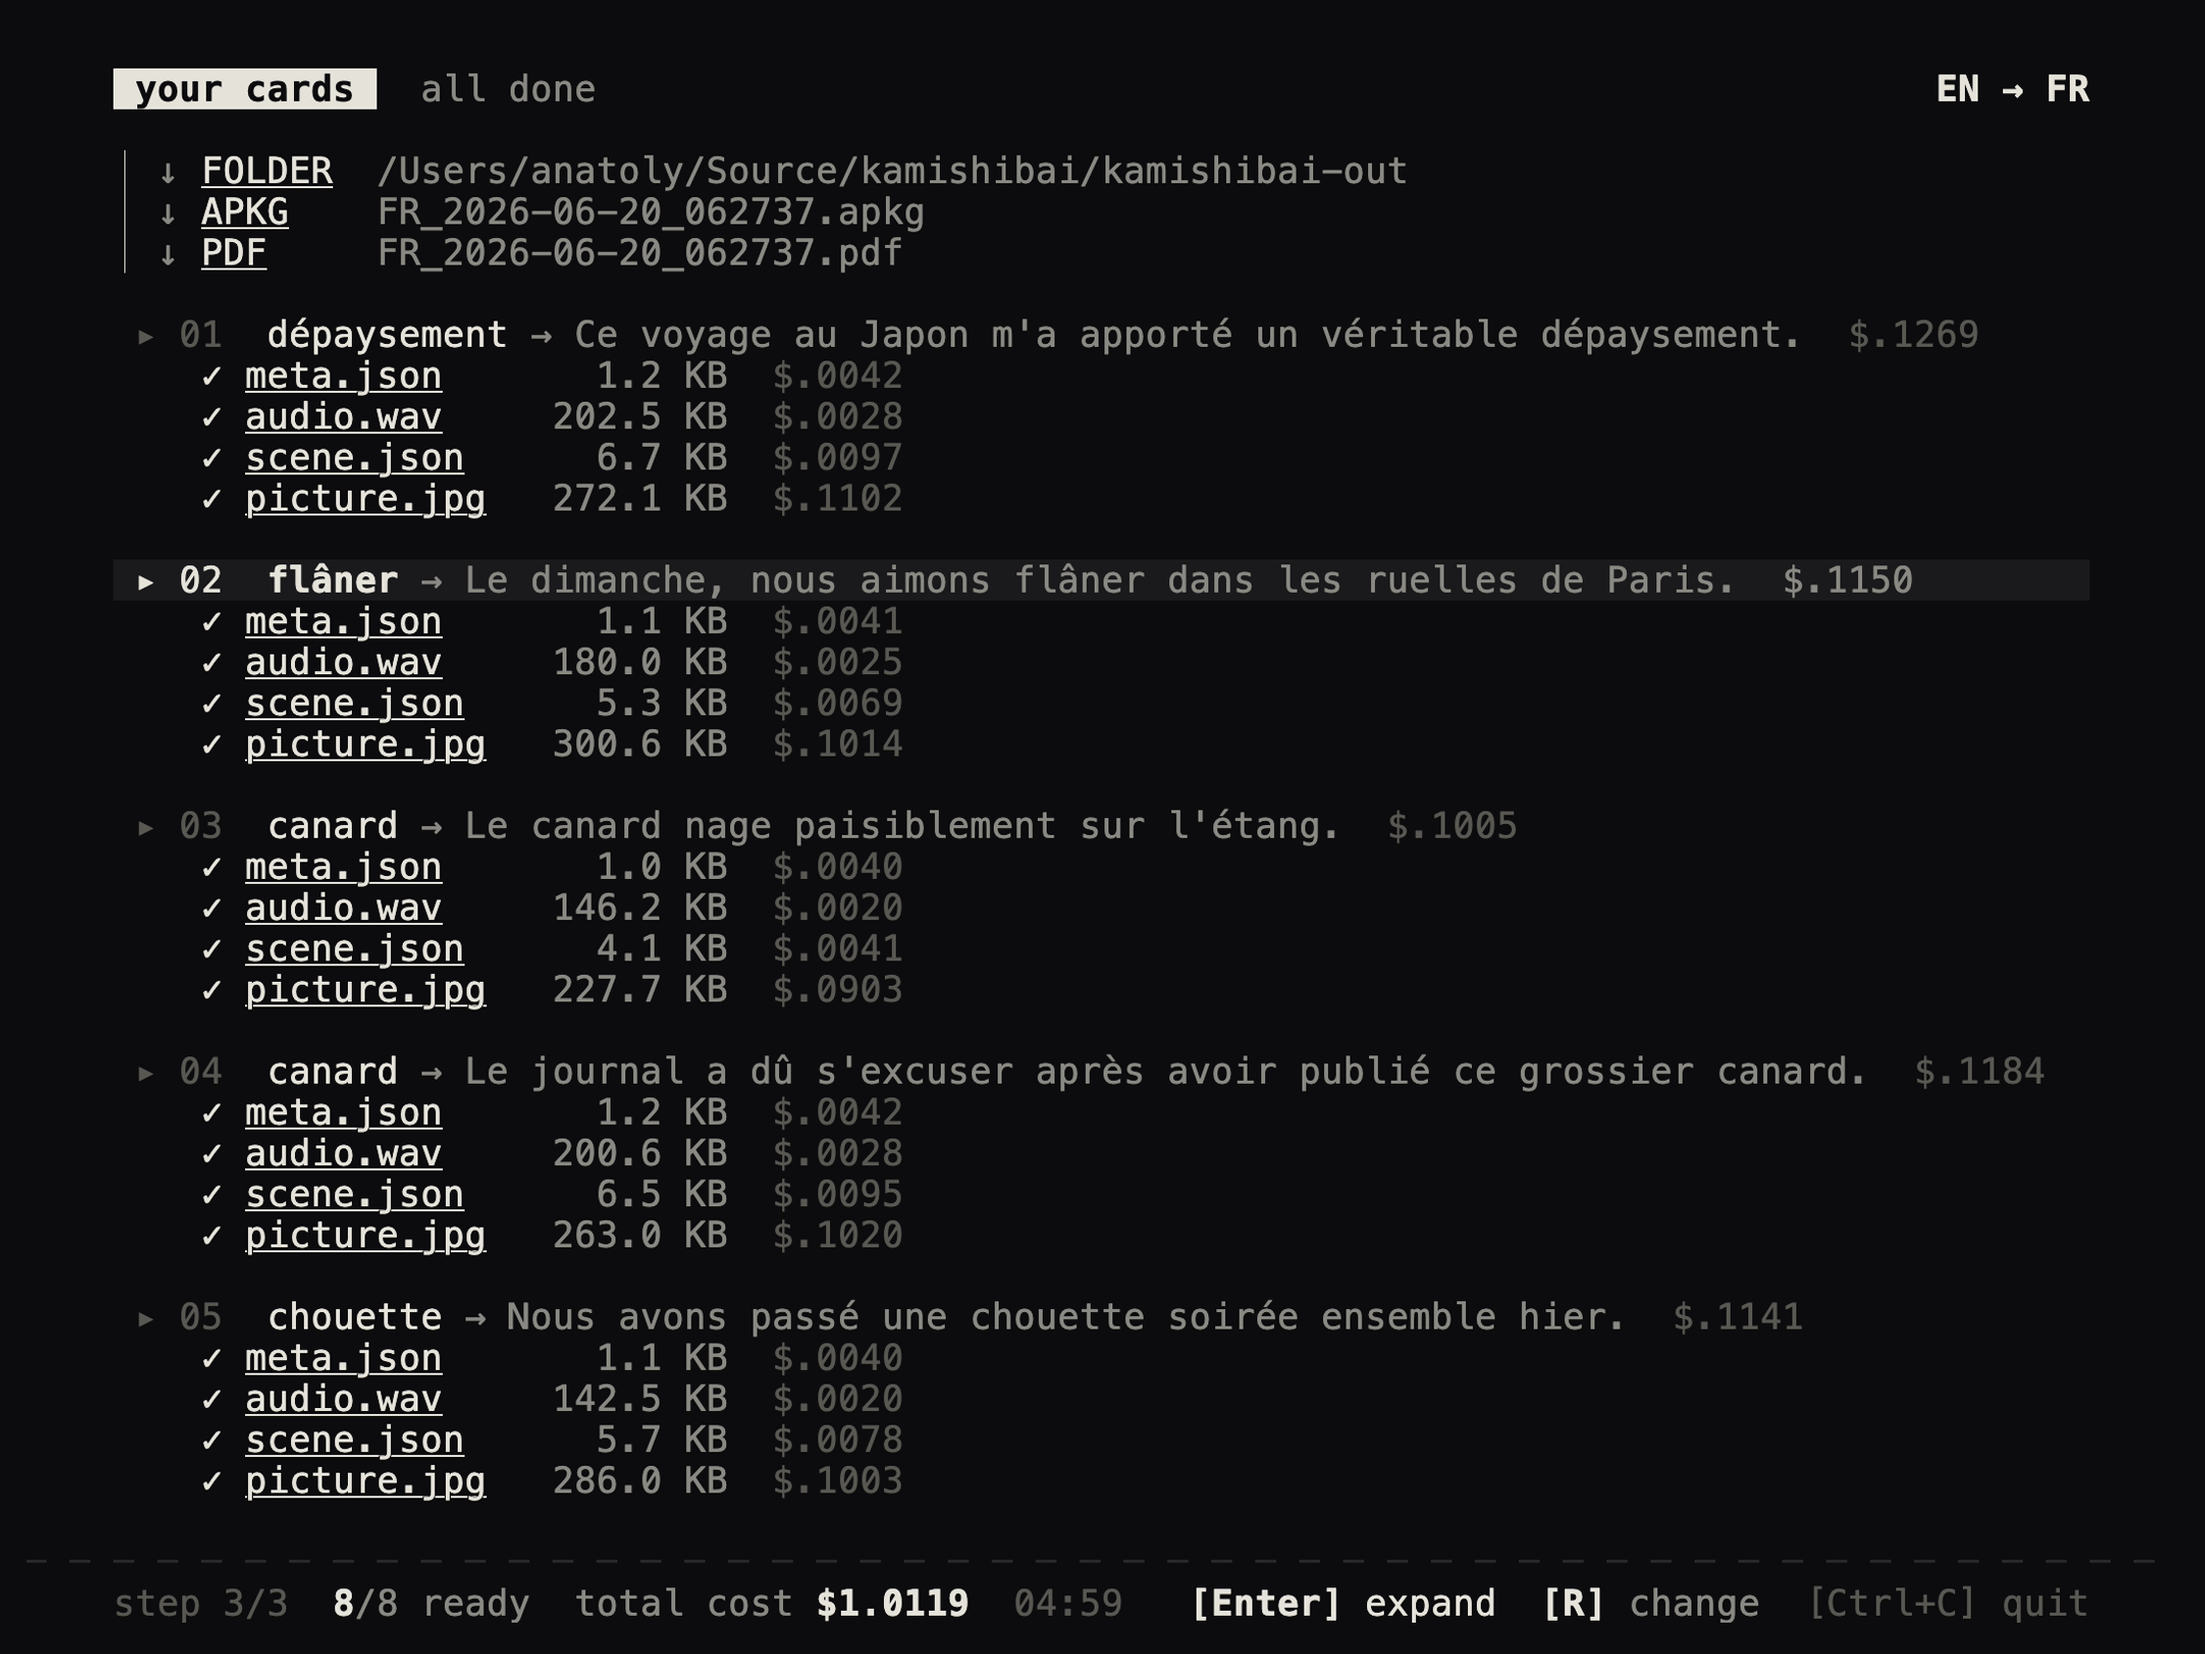
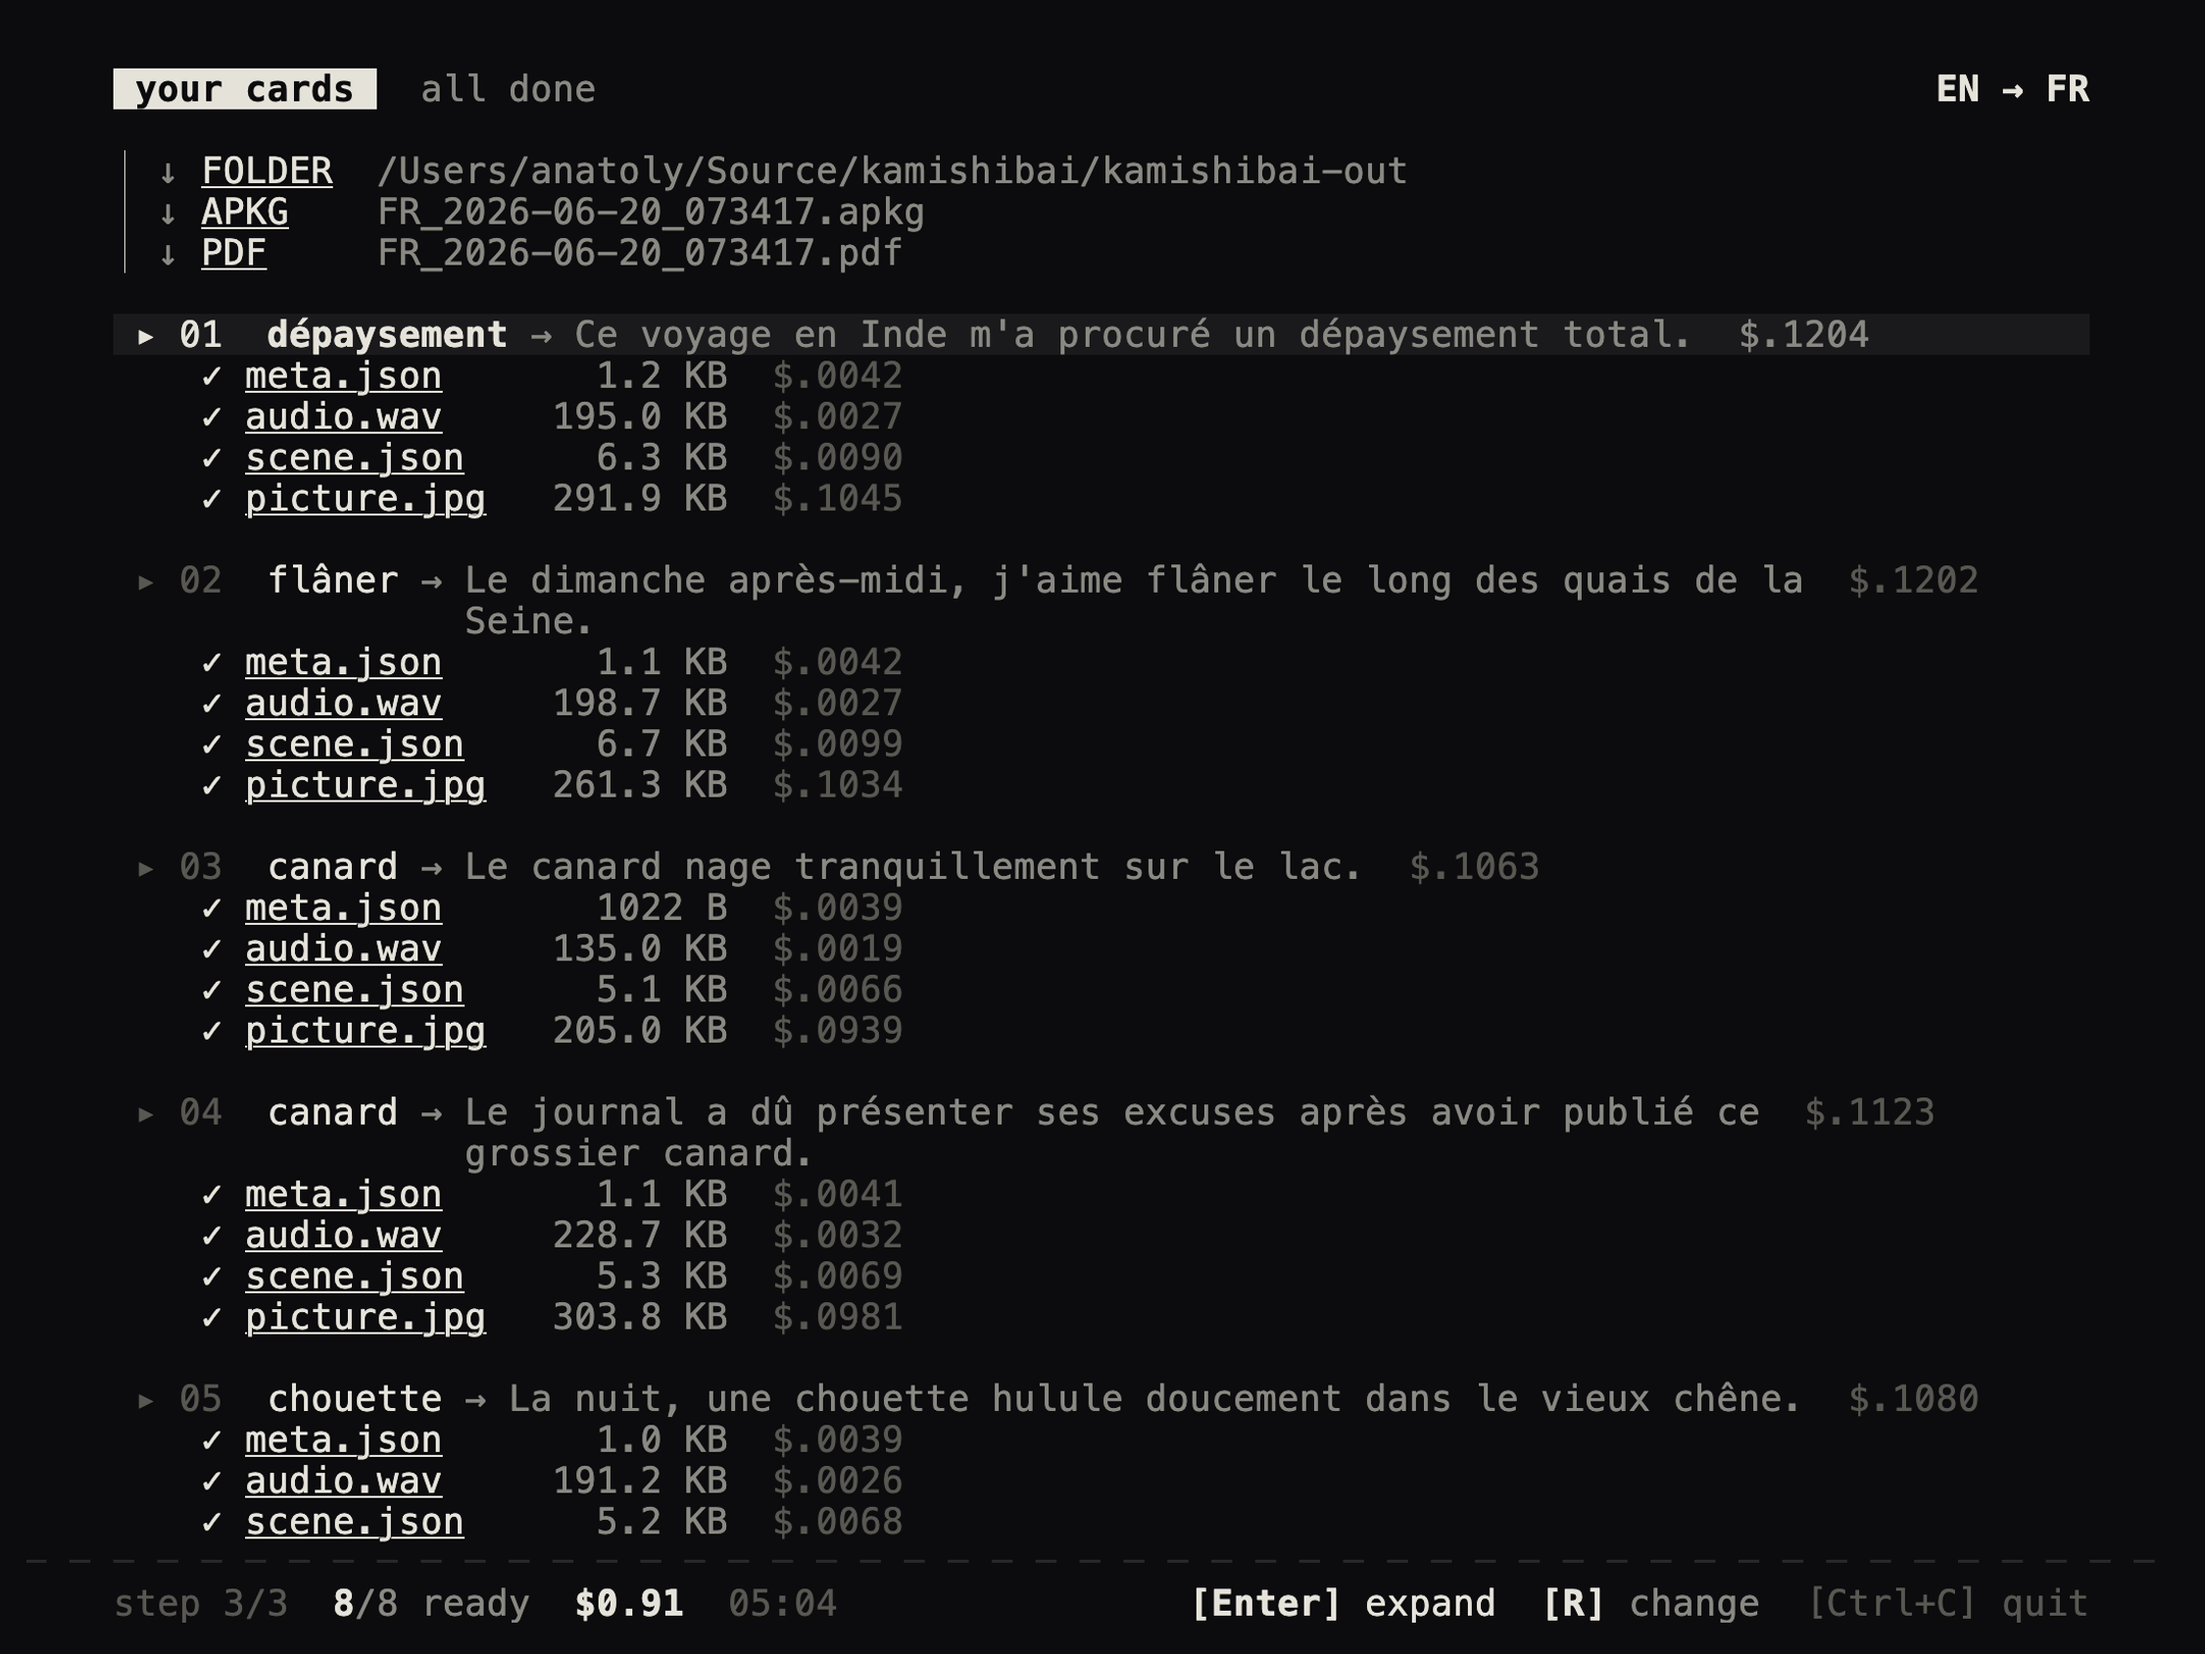
Simplify total cost display

diff --git a/tests/done.rs b/tests/done.rs
@@ -1,7 +1,10 @@
 //! Integration flow for the `Done` screen (08-done.png).
 
+use std::path::PathBuf;
+
 use kamishibai::session::{
-    Artifact, ArtifactSlot, CardArtifacts, CardDraft, CardMeta, LanguagePair,
+    Artifact, ArtifactFile, ArtifactSlot, CardArtifacts, CardDraft, CardMeta, GenerationCost,
+    LanguagePair,
 };
 use kamishibai::tui::{App, AppEvent, Screen, Side, draw, transit};
 use ratatui::Terminal;
@@ -61,6 +64,36 @@ fn failed_published() -> App {
     published().cards_started(vec![draft])
 }
 
+fn priced_file(name: &str, nanos: u64) -> ArtifactFile {
+    ArtifactFile::new(name, PathBuf::from(format!("/tmp/{name}")), "1 B", false)
+        .with_cost(GenerationCost::from_nanos(nanos))
+}
+
+fn priced_published() -> App {
+    let artifacts = CardArtifacts::from_parts(
+        ArtifactSlot::fresh(Artifact::Meta).succeeded_with(priced_file("meta.json", 1_500_000)),
+        ArtifactSlot::fresh(Artifact::Scene).succeeded_with(priced_file("scene.json", 2_000_000)),
+        ArtifactSlot::fresh(Artifact::Picture)
+            .succeeded_with(priced_file("picture.jpg", 67_300_000)),
+        ArtifactSlot::fresh(Artifact::Sound).succeeded_with(priced_file("audio.wav", 10_000_000)),
+    );
+    let meta = CardMeta::new(
+        "/wreck/",
+        "/wreck sentence/",
+        "meaning of wreck",
+        5,
+        "source for wreck",
+        "wreck",
+        "hint for wreck",
+        "context for wreck",
+        "Example with wreck.",
+    );
+    let draft = CardDraft::new("wreck", "verb sense", LanguagePair::new("en", "ru"))
+        .with_meta(meta, None)
+        .with_artifacts(artifacts);
+    published().cards_started(vec![draft])
+}
+
 #[test]
 fn done_screen_lists_short_artifact_labels_and_quit_hint() {
     let rendered = flat(&published());
@@ -73,6 +106,15 @@ fn done_screen_lists_short_artifact_labels_and_quit_hint() {
             && rendered.contains("RU → EN")
             && !rendered.contains("new batch"),
         "Done must show APKG/PDF labels, quit hint, and the language chip — no new-batch hook"
+    );
+}
+
+#[test]
+fn done_footer_shows_simplified_subdollar_total() {
+    let rendered = flat(&priced_published());
+    assert!(
+        rendered.contains("$0.08") && !rendered.contains("total cost"),
+        "Done footer must show only a cent-rounded dollar total: {rendered}"
     );
 }
 

diff --git a/src/session/cost.rs b/src/session/cost.rs
@@ -6,6 +6,7 @@ use std::ops::Add;
 use serde::{Deserialize, Serialize};
 
 const NANOS_PER_DISPLAY_UNIT: u64 = 100_000;
+const NANOS_PER_CENT: u64 = 10_000_000;
 
 /// Estimated Gemini request cost in nanodollars.
 #[derive(Clone, Copy, Debug, Default, Deserialize, Eq, Ord, PartialEq, PartialOrd, Serialize)]
@@ -46,6 +47,15 @@ impl GenerationCost {
             return format!("$.{fraction:04}");
         }
         format!("${whole}.{fraction:04}")
+    }
+
+    /// Return a USD label rounded to cents for summary totals.
+    #[must_use]
+    pub fn dollars_cents(&self) -> String {
+        let rounded = self.nanos.saturating_add(NANOS_PER_CENT / 2) / NANOS_PER_CENT;
+        let whole = rounded / 100;
+        let cents = rounded % 100;
+        format!("${whole}.{cents:02}")
     }
 }
 
@@ -139,5 +149,28 @@ impl CostRecord {
         let mut iter = records.iter();
         let first = iter.next()?.clone();
         Some(iter.fold(first, |total, item| total.merged(item)))
+    }
+}
+
+#[cfg(test)]
+mod tests {
+    use super::GenerationCost;
+
+    #[test]
+    fn dollars_cents_keeps_the_zero_before_subdollar_totals() {
+        assert_eq!(
+            GenerationCost::from_nanos(80_800_000).dollars_cents(),
+            "$0.08",
+            "subdollar summary totals must keep the leading zero"
+        );
+    }
+
+    #[test]
+    fn dollars_cents_rounds_to_the_nearest_cent() {
+        assert_eq!(
+            GenerationCost::from_nanos(1_015_000_000).dollars_cents(),
+            "$1.02",
+            "summary totals must round to ordinary cent precision"
+        );
     }
 }

diff --git a/tests/your_cards.rs b/tests/your_cards.rs
@@ -188,8 +188,9 @@ fn your_cards_shows_card_asset_and_total_costs_when_finished() {
             && rendered.contains("audio.wav          1 B  $.0100")
             && rendered.contains("scene.json         1 B  $.0020")
             && rendered.contains("picture.jpg        1 B  $.0673")
-            && rendered.contains("total cost $.0808"),
-        "finished cards must show per-card, per-asset, and total Gemini costs: {rendered}"
+            && rendered.contains("$0.08")
+            && !rendered.contains("total cost"),
+        "finished cards must show detailed costs and a simplified total in dollars: {rendered}"
     );
 }
 

diff --git a/src/tui/screens/done.rs b/src/tui/screens/done.rs
@@ -116,10 +116,7 @@ fn footer(app: &App, width: u16) -> Paragraph<'static> {
     }
     if let Some(cost) = super::your_cards::total_cost(app) {
         left.push(super::common::status_sep());
-        left.push(Span::styled(
-            format!("total cost {}", cost.dollars()),
-            palette::dim(),
-        ));
+        left.push(Span::styled(cost.dollars_cents(), palette::dim()));
     }
     let mut hints: Vec<super::common::FooterHint> = Vec::new();
     if app.cards_failed() > 0 {

diff --git a/src/tui/screens/your_cards.rs b/src/tui/screens/your_cards.rs
@@ -850,9 +850,8 @@ fn footer(app: &App, width: u16) -> Paragraph<'static> {
         && let Some(cost) = total_cost(app)
     {
         left.push(super::common::status_sep());
-        left.push(Span::styled("total cost ", palette::dim()));
         left.push(Span::styled(
-            cost.dollars(),
+            cost.dollars_cents(),
             palette::base().add_modifier(Modifier::BOLD),
         ));
     }
